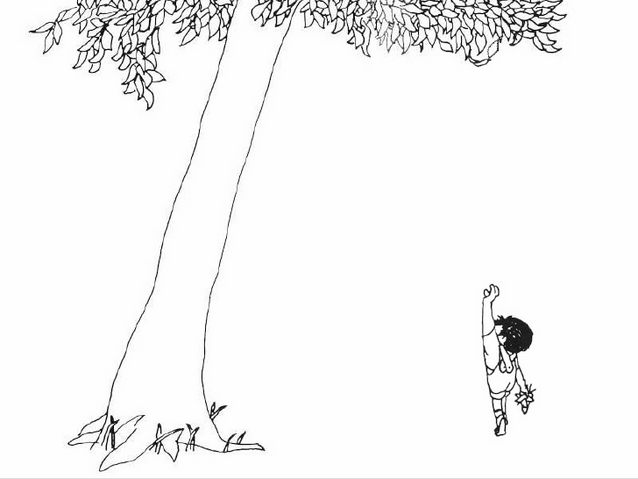
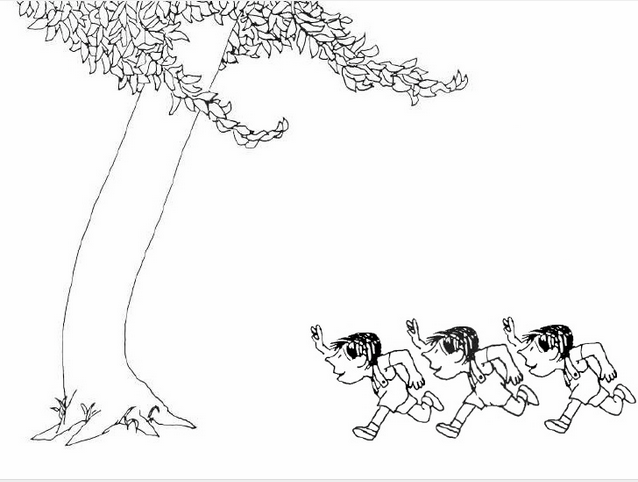
Formatting kid lib text

diff --git a/src/kid-library.html b/src/kid-library.html
@@ -323,30 +323,33 @@
 
 
       <div class="p-title" title='second-page'>
-          <h3>Once there was a tree</h3>
+          <div class = "book-text" style = "left:50px; top:300px;">Once there was a tree</div>
+          <img class = "book-pic" src = '../graphics/book/page1.png'>
           <audio controls id="second-page" class="audio-controls">
             <source src="../audios/second-page.mp3" type="audio/mp3">
             Your browser does not support the audio element.
           </audio>
       </div>
       <div  class="p-title" title='third-page'>
-        <h3>That loved a little boy</h3>
-        <img src = '../graphics/book/boy.png'>
+        <div class = "book-text" style = "left:220px; top:180px;">And she loved a little boy</div>
+        <img class = "book-pic" src = '../graphics/book/page2.png'>
       </div>
 
       <div  class="p-title" title='fourth-page'>
-        <h3>And every day the boy would come</h3>
+        <div class = "book-text" style = "left:230px; top:210px;">And every day the boy would come</div>
+        <img class = "book-pic" src = '../graphics/book/page3.png'>
         <audio controls id="fourth-page" class="audio-controls">
           <source src="../audios/fourth-page.mp3" type="audio/mp3">
           Your browser does not support the audio element.
         </audio>  
       </div>
       <div  class="p-title" title='fifth-page'>
-        <h3>All over the tree!</h3>
+        <div class = "book-text" style = "left:80px; top:300px;">And gather her leaves</div>
+        <img class = "book-pic" src = '../graphics/book/page4.png'>
       </div>
 
       <div  class="p-title" title='sixth-page'>
-        <h3>The End.</h3>
+        <div class = "book-text">The End.</div>
         <h2><a href = 'kid-library.html'>here</a></h2>
         <audio controls id="six-page" class="audio-controls">
           <source src="../audios/six-page.mp3" type="audio/mp3">

diff --git a/src/style/kid-library.css b/src/style/kid-library.css
@@ -29,22 +29,15 @@ body{
 	right: 215px;
 	width:120px;
 }
-.book-popup{
-	position:absolute;
-    border:solid 1px #2CCCBC;
-    background-image: url('../../graphics/rainbows.png');
-    height:400px;
-    width:1000px;
-    z-index:200;
-    top: 0;
-    left: 0;
-    bottom:0;
-    right: 0;
-    margin:auto;
-    text-align: center;
-    padding: 100px 20px 120px 20px; 
-
+.book-text {
+	position: absolute;
 }
+
+.book-text {
+	height:100%;
+	font-size:16pt;
+}
+
 #book-cover{
 	/*background-image: url('../../graphics/GivingTree.jpg');*/
 	height:100%;
